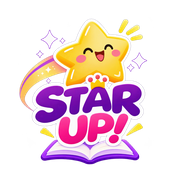
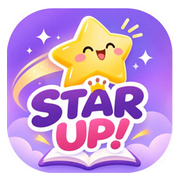
Add files via upload

diff --git a/teacher/index.html b/teacher/index.html
@@ -59,19 +59,18 @@
 <style id="starup-round3">.urgent-create{border:1px solid #ffd7a0;background:linear-gradient(135deg,#fff5e8,#fff);border-radius:16px;padding:14px;margin:14px 0}.urgent-check{display:flex;align-items:center;gap:9px;font-weight:700;color:#b34c32;cursor:pointer}.urgent-check input{width:19px;height:19px;accent-color:#e56b48}.urgent-badge{background:#ffe4df;color:#b33e2c;margin-right:5px}.urgent-mission-card{border:2px solid #ffb58e;background:linear-gradient(140deg,#fff4ed,#fff)}.team-member{padding:13px;border:1px solid #eee8f4;border-radius:17px;background:linear-gradient(120deg,#fff,#fcfaff);margin:9px 0;box-shadow:0 5px 16px #53427a0b}.team-member .profile-icon{width:52px;height:52px;border-radius:18px;font-size:27px;background:linear-gradient(145deg,#ffe7a8,#e9e4ff);box-shadow:0 4px 12px #53427a18}#urgentAlertModal{position:fixed;inset:0;z-index:9999;background:#26183c99;display:flex;align-items:center;justify-content:center;padding:18px}#urgentAlertModal .urgent-pop{width:min(440px,100%);background:linear-gradient(145deg,#fff0e5,#fff 58%,#f2edff);border:2px solid #ffbd9d;border-radius:26px;padding:24px;text-align:center;box-shadow:0 22px 70px #24163d55;animation:urgentPop .35s ease-out}@keyframes urgentPop{from{transform:translateY(15px) scale(.95);opacity:0}to{transform:none;opacity:1}}#urgentAlertModal .urgent-big{font-size:58px;line-height:1.2}#urgentAlertModal .urgent-count{font:900 28px Nunito;color:#c04b35}</style>
 
 
-<style id="starup-boot-blur-full-logo">
-/* Show the rendered app underneath a soft full-screen blur while booting. */
-#startupSplash{background:rgba(247,243,255,.64)!important;-webkit-backdrop-filter:blur(13px);backdrop-filter:blur(13px)}
-#app{transition:filter .35s ease}
-body:has(#startupSplash:not(.is-hidden)) #app{filter:blur(10px);transform:scale(1.015);transform-origin:center;pointer-events:none}
-#startupSplash .startup-logo-wrap{width:min(54vw,210px)!important;height:auto!important;aspect-ratio:1!important;border-radius:0!important;padding:0!important;background:transparent!important;box-shadow:none!important;overflow:visible!important}
+
+
+<style id="starup-symmetric-logo-v7">
+/* One square logo asset, one contain rule, consistent proportions in both portals. */
+#startupSplash .startup-logo-wrap{width:min(46vw,184px)!important;height:auto!important;aspect-ratio:1/1!important;max-width:184px!important;border:0!important;border-radius:0!important;padding:0!important;margin:0 auto!important;background:transparent!important;box-shadow:none!important;overflow:visible!important}
 #startupSplash .startup-logo-wrap:before{display:none!important}
-#startupSplash .startup-logo-wrap img{width:100%!important;height:100%!important;object-fit:contain!important;object-position:center!important;border-radius:0!important;clip-path:none!important;background:transparent!important;padding:0!important}
-.brandmark{display:block!important;width:54px!important;height:54px!important;min-width:54px!important;min-height:54px!important;object-fit:contain!important;object-position:center!important;border-radius:0!important;clip-path:none!important;padding:0!important;background:transparent!important;box-shadow:none!important;flex:0 0 54px!important}
+#startupSplash .startup-logo-wrap img{display:block!important;width:100%!important;height:100%!important;object-fit:contain!important;object-position:center!important;border:0!important;border-radius:0!important;clip-path:none!important;padding:0!important;margin:0!important;background:transparent!important}
+.brandmark{display:block!important;width:54px!important;height:54px!important;min-width:54px!important;min-height:54px!important;max-width:54px!important;max-height:54px!important;object-fit:contain!important;object-position:center!important;border:0!important;border-radius:0!important;clip-path:none!important;padding:0!important;margin:0!important;background:transparent!important;box-shadow:none!important;flex:0 0 54px!important}
 .top .brandmark,.profilehead .brandmark{width:54px!important;height:54px!important}
 </style>
 </head>
-<body><div id="startupSplash" aria-label="กำลังเปิด STAR UP"><div class="startup-inner"><div class="startup-logo-wrap"><img src="../logo-star-up-transparent.png?v=transparent4" alt="STAR UP!"></div><div class="startup-title">STAR UP!</div><div class="startup-subtitle">LEARN • PLAY • GROW</div><div class="startup-dots"><i></i><i></i><i></i></div></div></div><div id="app"></div><div class="modalback" id="modalback" onclick="if(event.target===this&&missionUploadBusy)event.preventDefault()"><div class="modal" id="modal"></div></div>
+<body><div id="startupSplash" aria-label="กำลังเปิด STAR UP"><div class="startup-inner"><div class="startup-logo-wrap"><img src="../logo-star-up-transparent.png?v=symmetric7" alt="STAR UP!"></div><div class="startup-title">STAR UP!</div><div class="startup-subtitle">LEARN • PLAY • GROW</div><div class="startup-dots"><i></i><i></i><i></i></div></div></div><div id="app"></div><div class="modalback" id="modalback" onclick="if(event.target===this&&missionUploadBusy)event.preventDefault()"><div class="modal" id="modal"></div></div>
 <script src="https://cdn.jsdelivr.net/npm/@supabase/supabase-js@2"></script><script src="https://cdnjs.cloudflare.com/ajax/libs/qrcodejs/1.0.0/qrcode.min.js"></script><script src="https://cdnjs.cloudflare.com/ajax/libs/jsQR/1.4.0/jsQR.min.js"></script>
 <script>
 // ใส่ Supabase Project URL และ anon/public key ของเจ้าของระบบก่อนเผยแพร่ออนไลน์
@@ -105,9 +104,9 @@ function togglePw(id,show){let el=$('#'+id);if(el)el.type=show?'text':'password'
 function setAuthView(v){authView=v;authMode=new URLSearchParams(location.search).get('portal')==='student'?'student':'teacher';renderAuth()}
 function setAuthMode(v){authMode=v;renderAuth()}
 function portalUrl(which){let base=location.pathname.replace(/[^/]*$/,'');return base+which+'/'}
-function renderPortalHome(){const logo='../logo-star-up-transparent.png?v=transparent4';$('#app').innerHTML=`<div class="authcard panel"><div class="brand"><img class="brandmark" src="${logo}" alt="STAR UP!"><div><h1>STAR UP!</h1><small>LEARN • PLAY • GROW</small></div></div><h2 class="center">เลือกเข้าสู่ระบบ</h2><p class="muted tiny center">เลือกพื้นที่ให้ตรงกับบทบาทของคุณ</p><a class="btn primary" style="display:block;text-align:center;text-decoration:none;width:100%;padding:14px" href="${portalUrl('teacher')}">👩🏫 เข้าสู่ระบบครู</a><a class="btn gold" style="display:block;text-align:center;text-decoration:none;width:100%;padding:14px;margin-top:12px" href="${portalUrl('student')}">🎒 เข้าสู่ระบบนักเรียน</a></div>`}
+function renderPortalHome(){const logo='../logo-star-up-transparent.png?v=symmetric7';$('#app').innerHTML=`<div class="authcard panel"><div class="brand"><img class="brandmark" src="${logo}" alt="STAR UP!"><div><h1>STAR UP!</h1><small>LEARN • PLAY • GROW</small></div></div><h2 class="center">เลือกเข้าสู่ระบบ</h2><p class="muted tiny center">เลือกพื้นที่ให้ตรงกับบทบาทของคุณ</p><a class="btn primary" style="display:block;text-align:center;text-decoration:none;width:100%;padding:14px" href="${portalUrl('teacher')}">👩🏫 เข้าสู่ระบบครู</a><a class="btn gold" style="display:block;text-align:center;text-decoration:none;width:100%;padding:14px;margin-top:12px" href="${portalUrl('student')}">🎒 เข้าสู่ระบบนักเรียน</a></div>`}
 function submitStudentLogin(){let t=extractToken($('#studentLoginCode')?.value);if(!t)return toast('กรุณาสแกน QR หรือกรอกรหัสนักเรียนให้ถูกต้อง');goStudent(t)}
-function renderAuth(){let invite=new URLSearchParams(location.search).get('invite'),isLogin=authView==='login';let studentMode=authMode==='student';$('#app').innerHTML=`<div class="authcard panel"><div class="brand"><img class="brandmark" src="../logo-star-up-transparent.png?v=transparent4" alt="STAR UP!"><div><h1>STAR UP!</h1><small>LEARN • PLAY • GROW</small></div></div><button class="btn soft" id="installAppBtn" onclick="installStarUpApp()" style="display:block;width:100%;margin:-5px 0 18px">📲 ติดตั้งแอป STAR UP!</button>${new URLSearchParams(location.search).get("portal")==="student"?"":new URLSearchParams(location.search).get("portal")==="teacher"?"":`<div class="authswitch"><button class="${!studentMode?'active':''}" onclick="setAuthMode('teacher')">👩🏫 ครู</button><button class="${studentMode?'active':''}" onclick="setAuthMode('student')">🎒 นักเรียน</button></div>`}${studentMode?`<h2 class="center">เข้าสู่หน้านักเรียน</h2><p class="muted tiny center">ใช้ QR ประจำตัว หรือกรอกรหัสจากบัตรนักเรียน</p><div class="notice info">🌟 นักเรียนไม่ต้องสมัครบัญชีและไม่ต้องใช้รหัสผ่าน</div><button class="btn primary" style="width:100%;padding:13px" onclick="openStudentScan()">📷 เปิดกล้องสแกน QR</button><div class="fieldrow" style="margin-top:18px"><label>หรือกรอกรหัส / วางลิงก์ QR</label><input id="studentLoginCode" class="field" placeholder="รหัสนักเรียนหรือ URL จาก QR" autocomplete="off"></div><button class="btn gold" style="width:100%" onclick="submitStudentLogin()">เข้าสู่ระบบนักเรียน</button><button class="btn white" style="width:100%;margin-top:10px" onclick="location.href=location.pathname">กลับหน้าแรก</button>`:`<h2 class="center">${isLogin?'เข้าสู่ระบบ':'สมัครสมาชิกคุณครู'}</h2><p class="muted tiny center">${isLogin?'เข้าสู่ระบบเพื่อจัดการห้องเรียน':'สร้างบัญชีใหม่เพื่อจัดการห้องเรียน'}</p>${invite?'<div class="notice info">มีคำเชิญเข้าร่วมห้องเรียน เมื่อเข้าสู่ระบบแล้วระบบจะเพิ่มห้องให้อัตโนมัติ</div>':''}${isLogin?'':'<div class="fieldrow"><label>ชื่อที่แสดง</label><input id="authName" class="field" placeholder="ชื่อคุณครู"></div>'}<div class="fieldrow"><label>อีเมล</label><input id="authEmail" class="field" type="email" placeholder="teacher@example.com" autocomplete="email"></div>${pwField('authPass','รหัสผ่าน',isLogin?'รหัสผ่าน':'อย่างน้อย 8 ตัวอักษร')}${isLogin?'':pwField('authPass2','ยืนยันรหัสผ่าน','พิมพ์รหัสผ่านอีกครั้ง')}${isLogin?'<button class="btn primary" style="width:100%" onclick="window.signIn()">เข้าสู่ระบบครู</button><p class="center tiny muted" style="margin:14px 0 4px">ยังไม่มีบัญชี? <a href="#" onclick="setAuthView(\'signup\');return false" style="color:var(--purple);font-weight:700">สมัครสมาชิก</a></p>':'<button class="btn gold" style="width:100%" onclick="signUp()">สมัครสมาชิก</button><p class="center tiny muted" style="margin:14px 0 4px">มีบัญชีอยู่แล้ว? <a href="#" onclick="setAuthView(\'login\');return false" style="color:var(--purple);font-weight:700">เข้าสู่ระบบ</a></p>'}<div class="notice">บัญชีครูใช้สำหรับจัดการคะแนนและรางวัลเท่านั้น นักเรียนเข้าใช้งานผ่าน QR ประจำตัว</div><button class="btn white" style="width:100%" onclick="location.href=location.pathname">กลับหน้าแรก</button>`}</div>`}
+function renderAuth(){let invite=new URLSearchParams(location.search).get('invite'),isLogin=authView==='login';let studentMode=authMode==='student';$('#app').innerHTML=`<div class="authcard panel"><div class="brand"><img class="brandmark" src="../logo-star-up-transparent.png?v=symmetric7" alt="STAR UP!"><div><h1>STAR UP!</h1><small>LEARN • PLAY • GROW</small></div></div><button class="btn soft" id="installAppBtn" onclick="installStarUpApp()" style="display:block;width:100%;margin:-5px 0 18px">📲 ติดตั้งแอป STAR UP!</button>${new URLSearchParams(location.search).get("portal")==="student"?"":new URLSearchParams(location.search).get("portal")==="teacher"?"":`<div class="authswitch"><button class="${!studentMode?'active':''}" onclick="setAuthMode('teacher')">👩🏫 ครู</button><button class="${studentMode?'active':''}" onclick="setAuthMode('student')">🎒 นักเรียน</button></div>`}${studentMode?`<h2 class="center">เข้าสู่หน้านักเรียน</h2><p class="muted tiny center">ใช้ QR ประจำตัว หรือกรอกรหัสจากบัตรนักเรียน</p><div class="notice info">🌟 นักเรียนไม่ต้องสมัครบัญชีและไม่ต้องใช้รหัสผ่าน</div><button class="btn primary" style="width:100%;padding:13px" onclick="openStudentScan()">📷 เปิดกล้องสแกน QR</button><div class="fieldrow" style="margin-top:18px"><label>หรือกรอกรหัส / วางลิงก์ QR</label><input id="studentLoginCode" class="field" placeholder="รหัสนักเรียนหรือ URL จาก QR" autocomplete="off"></div><button class="btn gold" style="width:100%" onclick="submitStudentLogin()">เข้าสู่ระบบนักเรียน</button><button class="btn white" style="width:100%;margin-top:10px" onclick="location.href=location.pathname">กลับหน้าแรก</button>`:`<h2 class="center">${isLogin?'เข้าสู่ระบบ':'สมัครสมาชิกคุณครู'}</h2><p class="muted tiny center">${isLogin?'เข้าสู่ระบบเพื่อจัดการห้องเรียน':'สร้างบัญชีใหม่เพื่อจัดการห้องเรียน'}</p>${invite?'<div class="notice info">มีคำเชิญเข้าร่วมห้องเรียน เมื่อเข้าสู่ระบบแล้วระบบจะเพิ่มห้องให้อัตโนมัติ</div>':''}${isLogin?'':'<div class="fieldrow"><label>ชื่อที่แสดง</label><input id="authName" class="field" placeholder="ชื่อคุณครู"></div>'}<div class="fieldrow"><label>อีเมล</label><input id="authEmail" class="field" type="email" placeholder="teacher@example.com" autocomplete="email"></div>${pwField('authPass','รหัสผ่าน',isLogin?'รหัสผ่าน':'อย่างน้อย 8 ตัวอักษร')}${isLogin?'':pwField('authPass2','ยืนยันรหัสผ่าน','พิมพ์รหัสผ่านอีกครั้ง')}${isLogin?'<button class="btn primary" style="width:100%" onclick="window.signIn()">เข้าสู่ระบบครู</button><p class="center tiny muted" style="margin:14px 0 4px">ยังไม่มีบัญชี? <a href="#" onclick="setAuthView(\'signup\');return false" style="color:var(--purple);font-weight:700">สมัครสมาชิก</a></p>':'<button class="btn gold" style="width:100%" onclick="signUp()">สมัครสมาชิก</button><p class="center tiny muted" style="margin:14px 0 4px">มีบัญชีอยู่แล้ว? <a href="#" onclick="setAuthView(\'login\');return false" style="color:var(--purple);font-weight:700">เข้าสู่ระบบ</a></p>'}<div class="notice">บัญชีครูใช้สำหรับจัดการคะแนนและรางวัลเท่านั้น นักเรียนเข้าใช้งานผ่าน QR ประจำตัว</div><button class="btn white" style="width:100%" onclick="location.href=location.pathname">กลับหน้าแรก</button>`}</div>`}
 async function signIn(){
   const btn=$('button[onclick="window.signIn()"]');
   const email=$('#authEmail')?.value.trim().toLowerCase()||'';
@@ -143,7 +142,7 @@ async function signIn(){
 window.signIn = signIn;
 async function signUp(){try{let name=$('#authName').value.trim(),email=$('#authEmail').value.trim(),password=$('#authPass').value,password2=$('#authPass2').value;if(!name||!email||password.length<8)return toast('กรอกชื่อ อีเมล และรหัสผ่านอย่างน้อย 8 ตัวอักษร');if(password!==password2)return toast('รหัสผ่านและช่องยืนยันไม่ตรงกัน');let {data,error}=await supa.auth.signUp({email,password,options:{data:{display_name:name}}});if(error)throw error;if(data.session){user=data.user;await loadTeacher();let invite=new URLSearchParams(location.search).get('invite');if(invite){let x=await supa.rpc('accept_classroom_invite',{p_token:invite});if(x.error)throw x.error;history.replaceState({},'',location.pathname);await loadTeacher()}renderTeacher()}else toast('สมัครแล้ว กรุณาตรวจอีเมลเพื่อยืนยันบัญชีก่อนเข้าสู่ระบบ')}catch(e){toast(e.message)}}
 async function logout(){await supa.auth.signOut();user=null;renderAuth()}
-function renderTeacher(demoMode=isDemo()){$('#app').innerHTML=`<div class="shell"><header class="top"><div class="brand"><img class="brandmark" src="../logo-star-up-transparent.png?v=transparent4" alt="STAR UP!"><div><h1>STAR UP!</h1><small>LEARN • PLAY • GROW</small></div></div><div class="actions"><span class="badge">${demoMode?'โหมดทดลอง':'บัญชีครูออนไลน์'}</span><button class="btn white" onclick="openTeacherProfile()"><span class="profile-icon">${esc(profile?.profile_icon||'🧑🏫')}</span>โปรไฟล์ครู</button>${user?'<button class="btn white" onclick="logout()">ออกจากระบบ</button>':'<button class="btn soft" onclick="demoStudent()">ทดลองหน้าจอนักเรียน</button><button class="btn white" onclick="showSetup()">ตั้งค่าออนไลน์</button>'}</div></header><section class="hero"><div><h2>ทุกคนมีดาวเป็นของตัวเอง ✨</h2><p>สะสมดาว ทำความดี แลกรางวัล และเติบโตไปด้วยกัน</p></div><div class="star">🌟</div></section>${demoMode?'<div class="notice info">โหมดทดลอง: ข้อมูลบันทึกอยู่ในเบราว์เซอร์นี้เท่านั้น ต้องเชื่อม Supabase และเผยแพร่เว็บไซต์ก่อนใช้ร่วมกันหลายอุปกรณ์</div>':''}${renderRoombar()}<div class="grid stats"><div class="stat"><div class="ico">👩🎓</div><div><b>${currentStudents().length}</b><small>นักเรียนในห้องนี้</small></div></div><div class="stat"><div class="ico">⭐</div><div><b>${money(currentStudents().reduce((n,s)=>n+(s.stars||0),0))}</b><small>ดาวคงเหลือรวม</small></div></div><div class="stat"><div class="ico">🏆</div><div><b style="font:700 15px Kanit">${esc([...currentStudents()].sort((a,b)=>b.stars-a.stars)[0]?.full_name||'—')}</b><small>ดาวเด่นประจำห้อง</small></div></div></div><nav class="tabs">${[['overview','🏠 ภาพรวม'],['students','👩🎓 นักเรียน'],['preview','📊 ดูหน้าจอสถานะนักเรียน'],['rewards','🎁 ของรางวัล'],['requests',`🔔 คำขอแลก ${requests.filter(r=>r.status==='pending').length?`<span class="tab-alert">${requests.filter(r=>r.status==='pending').length}</span>`:''}`],['missions',`🌱 ภารกิจ ${missionSubmissions.filter(q=>q.status==='pending').length?`<span class="tab-alert">${missionSubmissions.filter(q=>q.status==='pending').length}</span>`:''}`],['teachers','👩🏫 ทีมครู']].map(([id,t])=>`<button class="tab ${view===id?'active':''}" onclick="setView('${id}')">${t}</button>`).join('')}</nav><main>${teacherContent()}</main><div class="profilefoot">STAR UP! • ทุกคนมีดาวเป็นของตัวเอง</div></div>`}
+function renderTeacher(demoMode=isDemo()){$('#app').innerHTML=`<div class="shell"><header class="top"><div class="brand"><img class="brandmark" src="../logo-star-up-transparent.png?v=symmetric7" alt="STAR UP!"><div><h1>STAR UP!</h1><small>LEARN • PLAY • GROW</small></div></div><div class="actions"><span class="badge">${demoMode?'โหมดทดลอง':'บัญชีครูออนไลน์'}</span><button class="btn white" onclick="openTeacherProfile()"><span class="profile-icon">${esc(profile?.profile_icon||'🧑🏫')}</span>โปรไฟล์ครู</button>${user?'<button class="btn white" onclick="logout()">ออกจากระบบ</button>':'<button class="btn soft" onclick="demoStudent()">ทดลองหน้าจอนักเรียน</button><button class="btn white" onclick="showSetup()">ตั้งค่าออนไลน์</button>'}</div></header><section class="hero"><div><h2>ทุกคนมีดาวเป็นของตัวเอง ✨</h2><p>สะสมดาว ทำความดี แลกรางวัล และเติบโตไปด้วยกัน</p></div><div class="star">🌟</div></section>${demoMode?'<div class="notice info">โหมดทดลอง: ข้อมูลบันทึกอยู่ในเบราว์เซอร์นี้เท่านั้น ต้องเชื่อม Supabase และเผยแพร่เว็บไซต์ก่อนใช้ร่วมกันหลายอุปกรณ์</div>':''}${renderRoombar()}<div class="grid stats"><div class="stat"><div class="ico">👩🎓</div><div><b>${currentStudents().length}</b><small>นักเรียนในห้องนี้</small></div></div><div class="stat"><div class="ico">⭐</div><div><b>${money(currentStudents().reduce((n,s)=>n+(s.stars||0),0))}</b><small>ดาวคงเหลือรวม</small></div></div><div class="stat"><div class="ico">🏆</div><div><b style="font:700 15px Kanit">${esc([...currentStudents()].sort((a,b)=>b.stars-a.stars)[0]?.full_name||'—')}</b><small>ดาวเด่นประจำห้อง</small></div></div></div><nav class="tabs">${[['overview','🏠 ภาพรวม'],['students','👩🎓 นักเรียน'],['preview','📊 ดูหน้าจอสถานะนักเรียน'],['rewards','🎁 ของรางวัล'],['requests',`🔔 คำขอแลก ${requests.filter(r=>r.status==='pending').length?`<span class="tab-alert">${requests.filter(r=>r.status==='pending').length}</span>`:''}`],['missions',`🌱 ภารกิจ ${missionSubmissions.filter(q=>q.status==='pending').length?`<span class="tab-alert">${missionSubmissions.filter(q=>q.status==='pending').length}</span>`:''}`],['teachers','👩🏫 ทีมครู']].map(([id,t])=>`<button class="tab ${view===id?'active':''}" onclick="setView('${id}')">${t}</button>`).join('')}</nav><main>${teacherContent()}</main><div class="profilefoot">STAR UP! • ทุกคนมีดาวเป็นของตัวเอง</div></div>`}
 function renderRoombar(){return `<div class="roombar"><strong>🏫 ห้องเรียน</strong><select class="field" style="max-width:230px" onchange="changeRoom(this.value)">${rooms.map(r=>`<option value="${r.id}" ${r.id===activeRoom?'selected':''}>${esc(r.name)}</option>`).join('')}</select><button class="btn soft small" onclick="openCreateRoom()">＋ เพิ่มห้อง</button>${activeRoom?'<button class="btn white small" onclick="openRenameRoom()">✏ แก้ชื่อห้อง</button>':''}${activeRoom&&(isDemo()||roomNow()?.my_role==='owner')?'<button class="btn red small" onclick="deleteRoom()">🗑 ลบห้อง</button>':''}${activeRoom?'<button class="btn white small" onclick="inviteTeacher()">🔗 เชิญครู</button>':''}<span class="status">${rooms.length} ห้องที่เข้าถึงได้</span></div>`}
 function teacherContent(){if(!activeRoom)return `<section class="panel empty"><div class="big">🏫</div><h3>เริ่มต้นสร้างห้องเรียน</h3><p>สร้างห้องแรกเพื่อเพิ่มนักเรียนและตั้งค่าของรางวัล</p><button class="btn primary" onclick="openCreateRoom()">＋ สร้างห้องเรียน</button></section>`;if(view==='students')return studentManagement();if(view==='preview')return previewPage();if(view==='rewards')return rewardManagement();if(view==='requests')return requestManagement();if(view==='missions')return missionManagement();if(view==='teachers')return teacherManagement();return overviewPage()}
 function setView(v){view=v;renderTeacher(isDemo())}async function changeRoom(id){activeRoom=id;if(!isDemo())await loadRoom();else{demo.activeRoom=id;saveDemo();students=demo.students;rewards=demo.rewards.filter(r=>r.classroom_id===id);rewardLibrary=demo.rewardLibrary||[];requests=demo.requests.filter(r=>r.classroom_id===id);teachers=demo.teachers}renderTeacher()}
@@ -251,7 +250,7 @@ function closeUrgentMissionAlert(){clearInterval(urgentAlertTimer);urgentAlertTi
 async function openUrgentMissionFromAlert(id){closeUrgentMissionAlert();try{studentData=await getStudentPortal(studentToken);studentTab='missions';renderStudent();setTimeout(()=>document.querySelector(`[data-mission-id="${id}"]`)?.scrollIntoView({behavior:'smooth',block:'center'}),100)}catch(e){toast('เปิดภารกิจไม่สำเร็จ: '+e.message)}}
 function subscribeUrgentMissions(){if(!studentToken||!studentData)return;if(urgentPollTimer)clearInterval(urgentPollTimer);if(!seenUrgentMissionIds.size)(studentData.missions||[]).forEach(m=>seenUrgentMissionIds.add(m.id));urgentPollTimer=setInterval(async()=>{try{let fresh=await getStudentPortal(studentToken);if(!fresh)return;studentData=fresh;(fresh.missions||[]).forEach(m=>{if(m.is_urgent&&!seenUrgentMissionIds.has(m.id)&&(!m.urgent_until||new Date(m.urgent_until)>new Date()))showUrgentMissionAlert(m);else seenUrgentMissionIds.add(m.id)})}catch(e){}},5000)}
 async function loadStudent(){try{if(CLOUD_READY)supa=window.supabase.createClient(SUPABASE_URL,SUPABASE_ANON_KEY);studentData=await getStudentPortal(studentToken);if(!studentData){$('#app').innerHTML='<div class="profilewrap"><div class="panel profile-card center"><div class="big">🔒</div><h2>ไม่พบโปรไฟล์นักเรียน</h2><p class="muted">'+(isDemo()?'แอปนี้ยังไม่ได้เชื่อมต่อฐานข้อมูล (Supabase) จึงเปิดโปรไฟล์จากเครื่องอื่นไม่ได้ ผู้ดูแลต้องตั้งค่า SUPABASE_URL และ SUPABASE_ANON_KEY ในไฟล์ก่อน':'QR อาจไม่ถูกต้องหรือถูกยกเลิกแล้ว กรุณาติดต่อคุณครู')+'</p></div></div>';return}renderStudent();subscribeUrgentMissions()}catch(e){$('#app').innerHTML=`<div class="profilewrap"><div class="panel profile-card center"><h2>เปิดโปรไฟล์ไม่สำเร็จ</h2><p>${esc(e.message)}</p></div></div>`}}
-function renderStudent(){$('#app').innerHTML=`<div class="profilewrap">${previewMode?'<div class="notice info" style="position:sticky;top:0;z-index:5;display:flex;justify-content:space-between;align-items:center;gap:8px;flex-wrap:wrap">👁 โหมดตัวอย่าง: กำลังดูหน้าจอของนักเรียน (ดูได้อย่างเดียว)<button class="btn white small" onclick="exitPreview()">← กลับหน้าครู</button></div>':''}<div class="profilehead"><div class="brand"><img class="brandmark" src="../logo-star-up-transparent.png?v=transparent4" alt="STAR UP!"><div><h1>STAR UP!</h1><small>LEARN • PLAY • GROW</small></div></div><div class="actions"><span class="badge">STUDENT PROFILE</span>${previewMode?'':'<button class="btn white small" onclick="logoutStudent()">ออกจากระบบ</button>'}</div></div><div class="studentapp"><section class="studenthero"><div><div class="tiny muted">WELCOME, STAR!</div><h2 style="margin:4px 0 8px">${esc(studentData.student.full_name)} ✨</h2><div class="tiny muted">🏫 ${esc(studentData.classroom?.name||'ห้องเรียน')}</div><div class="star-balance" style="font:900 38px Nunito;color:#d69a1e;margin-top:12px">${money(studentData.student.stars)} ⭐</div><div class="tiny muted">ดาวสะสมของฉัน</div></div><div class="profile-icon large">${esc(studentData.student.profile_icon||'⭐')}</div></section><nav class="student-tabs">${[['profile','🌟 โปรไฟล์'],['missions','🌱 ภารกิจ'],['icon','😊 ไอคอนของฉัน'],['rewards','🎁 ร้านแลกรางวัล'],['ranking','🏆 อันดับ']].map(([id,t])=>`<button class="tab ${studentTab===id?'active':''}" onclick="studentTab='${id}';renderStudent()">${t}</button>`).join('')}</nav>${studentContent()}<div class="profilefoot">STAR UP! • ทุกคนมีดาวเป็นของตัวเอง</div></div></div>`}
+function renderStudent(){$('#app').innerHTML=`<div class="profilewrap">${previewMode?'<div class="notice info" style="position:sticky;top:0;z-index:5;display:flex;justify-content:space-between;align-items:center;gap:8px;flex-wrap:wrap">👁 โหมดตัวอย่าง: กำลังดูหน้าจอของนักเรียน (ดูได้อย่างเดียว)<button class="btn white small" onclick="exitPreview()">← กลับหน้าครู</button></div>':''}<div class="profilehead"><div class="brand"><img class="brandmark" src="../logo-star-up-transparent.png?v=symmetric7" alt="STAR UP!"><div><h1>STAR UP!</h1><small>LEARN • PLAY • GROW</small></div></div><div class="actions"><span class="badge">STUDENT PROFILE</span>${previewMode?'':'<button class="btn white small" onclick="logoutStudent()">ออกจากระบบ</button>'}</div></div><div class="studentapp"><section class="studenthero"><div><div class="tiny muted">WELCOME, STAR!</div><h2 style="margin:4px 0 8px">${esc(studentData.student.full_name)} ✨</h2><div class="tiny muted">🏫 ${esc(studentData.classroom?.name||'ห้องเรียน')}</div><div class="star-balance" style="font:900 38px Nunito;color:#d69a1e;margin-top:12px">${money(studentData.student.stars)} ⭐</div><div class="tiny muted">ดาวสะสมของฉัน</div></div><div class="profile-icon large">${esc(studentData.student.profile_icon||'⭐')}</div></section><nav class="student-tabs">${[['profile','🌟 โปรไฟล์'],['missions','🌱 ภารกิจ'],['icon','😊 ไอคอนของฉัน'],['rewards','🎁 ร้านแลกรางวัล'],['ranking','🏆 อันดับ']].map(([id,t])=>`<button class="tab ${studentTab===id?'active':''}" onclick="studentTab='${id}';renderStudent()">${t}</button>`).join('')}</nav>${studentContent()}<div class="profilefoot">STAR UP! • ทุกคนมีดาวเป็นของตัวเอง</div></div></div>`}
 function studentContent(){let p=studentData;if(studentTab==='missions')return studentMissionPage();if(studentTab==='icon')return `<section class="panel"><h3>😊 เลือกไอคอนประจำตัว</h3><p class="tiny muted">เลือกสัญลักษณ์ที่ชอบเพื่อใช้แทนรูปโปรไฟล์ของตัวเอง</p>${iconPicker(p.student.profile_icon||'⭐','studentChooseIcon')}<div class="modalfoot"><button class="btn primary" onclick="saveStudentIcon()">บันทึกไอคอน</button></div></section>`;if(studentTab==='rewards')return studentRewards();if(studentTab==='ranking')return `<section class="panel"><h3>🏆 LEADERBOARD • ${esc(p.classroom?.name||'ห้องเรียน')}</h3>${p.leaderboard.map((s,i)=>`<div class="listrow"><div class="row"><b class="rank">${['🥇','🥈','🥉'][i]||i+1}</b><span class="profile-icon">${esc(s.profile_icon||'⭐')}</span><strong>${esc(s.name)}</strong></div><b>${money(s.stars)} ⭐</b></div>`).join('')}</section>`;return `<div class="grid contentgrid"><section class="panel"><h3>✨ ความสำเร็จของฉัน</h3><div class="notice success">ทุกความพยายามมีค่า เก็บดาวเพื่อแลกรางวัลที่ชอบนะ!</div><div class="listrow"><span>ดาวสะสมทั้งหมด</span><b>${money(p.student.stars)} ⭐</b></div><div class="listrow"><span>ห้องเรียน</span><b>${esc(p.classroom?.name||'—')}</b></div></section><section class="panel"><h3>🧾 ประวัติดาวล่าสุด</h3>${p.recent.length?p.recent.map(t=>`<div class="listrow"><div><strong>${esc(t.reason)}</strong><div class="tiny muted">${new Date(t.created_at).toLocaleDateString('th-TH')}</div></div><b style="color:${t.stars_delta>=0?'#25855c':'#b66b23'}">${t.stars_delta>0?'+':''}${t.stars_delta} ⭐</b></div>`).join(''):'<div class="empty">ยังไม่มีกิจกรรม</div>'}</section></div><section class="panel" style="margin-top:14px"><h3>🔔 สถานะคำขอแลกรางวัล</h3>${p.requests.slice(0,5).map(r=>`<div class="listrow"><span>${esc(r.emoji||'🎁')} ${esc(r.reward_name||'ของรางวัล')}</span><span class="badge">${statusText(r.status)}</span></div>`).join('')||'<div class="empty">ยังไม่มีคำขอ</div>'}</section>`}
 function statusText(s){return s==='pending'?'รอครูอนุมัติ':s==='approved'?'อนุมัติแล้ว':'ไม่อนุมัติ'}
 function studentChooseIcon(icon,el){chooseIcon(icon,el)}

diff --git a/teacher/sw.js b/teacher/sw.js
@@ -1,5 +1,5 @@
 /* STAR UP! teacher PWA — independent scope and cache */
-const CACHE_NAME='star-up-teacher-v7-exact3-transparent5';
+const CACHE_NAME='star-up-teacher-v7-symmetric7';
 const BASE=new URL(self.registration.scope);
 const CORE=['','index.html','manifest.webmanifest','logo-star-up.jpg','icon-192.png','icon-512.png','apple-touch-icon.png','favicon-32.png'].map(p=>new URL(p,BASE).href);
 self.addEventListener('install',e=>e.waitUntil((async()=>{const c=await caches.open(CACHE_NAME);await Promise.all(CORE.map(async u=>{try{const r=await fetch(u,{cache:'reload'});if(r.ok)await c.put(u,r)}catch{}}));await self.skipWaiting()})()));
